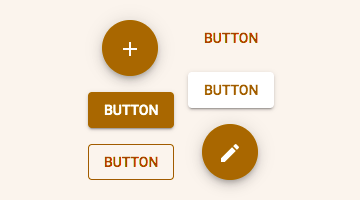
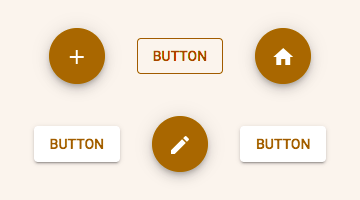
reorganize buttons

Changed region(s): [[0.0917, 0.09, 0.9167, 0.93], [0.6111, 0.33, 0.6417, 0.36]]

diff --git a/scenes/src/app/scenes/button/button-scene.html b/scenes/src/app/scenes/button/button-scene.html
@@ -1,11 +1,11 @@
 <div class="scene-buttons">
   <button mat-fab><mat-icon>add</mat-icon></button>
-  <button mat-raised-button color="primary">BUTTON</button>
   <button mat-stroked-button>BUTTON</button>
+  <button mat-fab><mat-icon>home</mat-icon></button>
 </div>
 
 <div class="scene-buttons">
-  <button mat-button>BUTTON</button>
   <button mat-raised-button>BUTTON</button>
   <button mat-fab><mat-icon>create</mat-icon></button>
+  <button mat-raised-button>BUTTON</button>
 </div>

diff --git a/scenes/src/app/scenes/button/button-scene.scss b/scenes/src/app/scenes/button/button-scene.scss
@@ -1,13 +1,9 @@
 .scene-buttons {
-  width: 100px;
-  text-align: center;
-}
-
-app-button-scene {
   display: flex;
-  flex-direction: row;
+  justify-content: center;
+  align-items: center;
 }
 
 div.scene-buttons button {
-  margin: 8px;
+  margin: 16px;
 }
